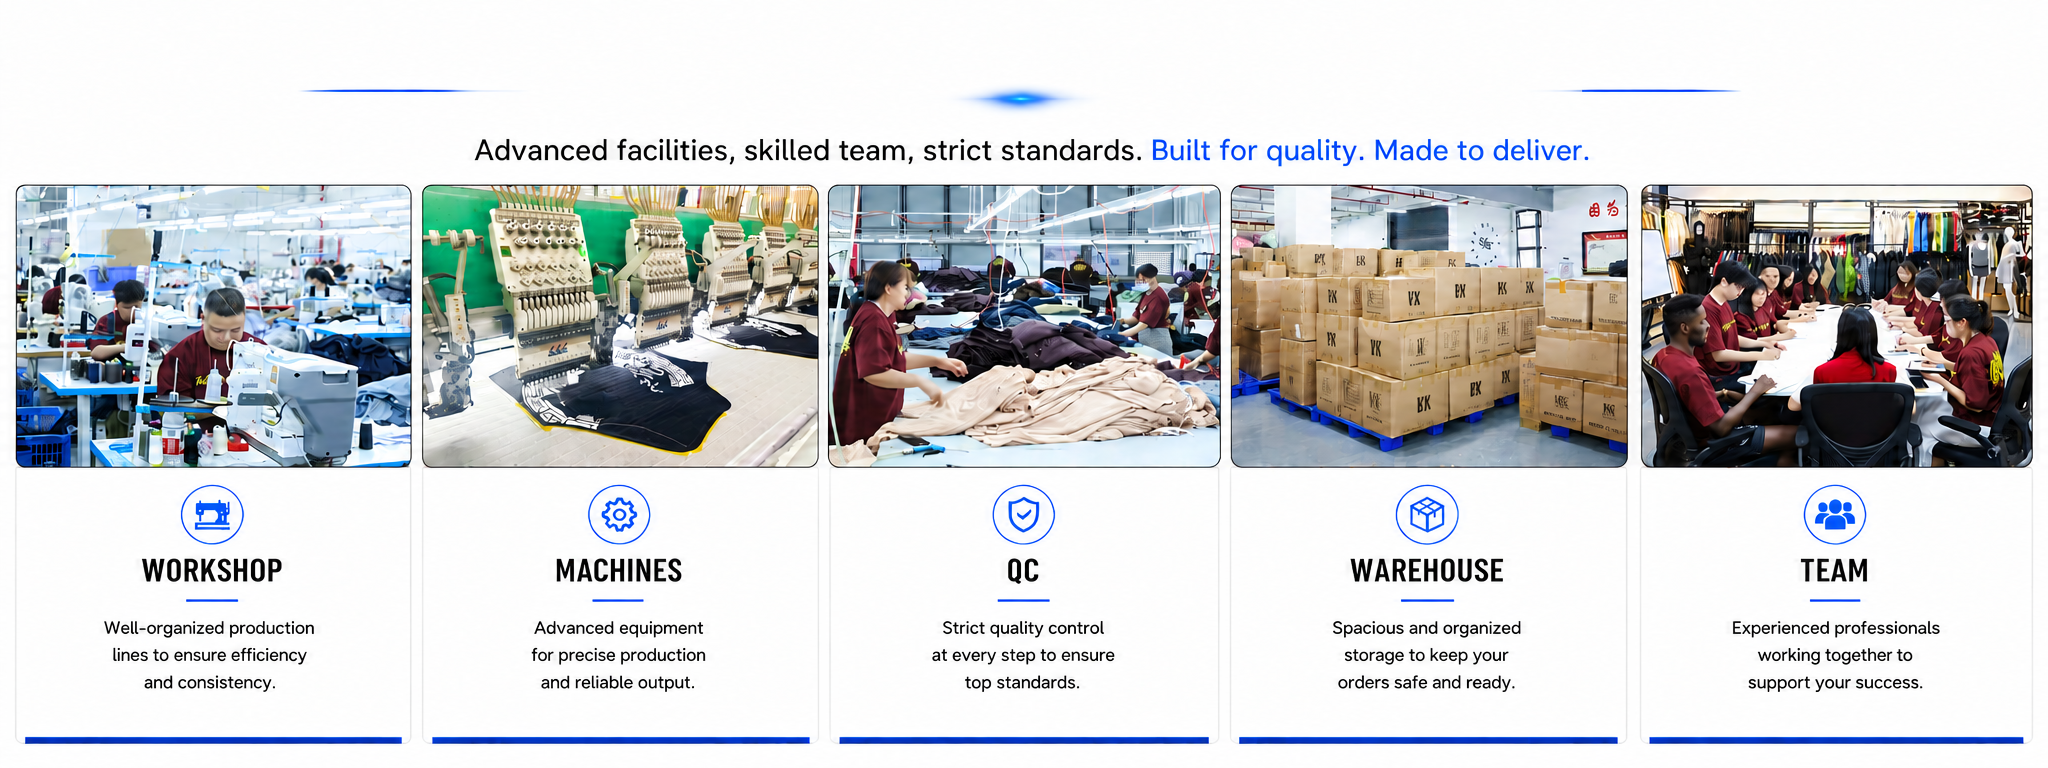
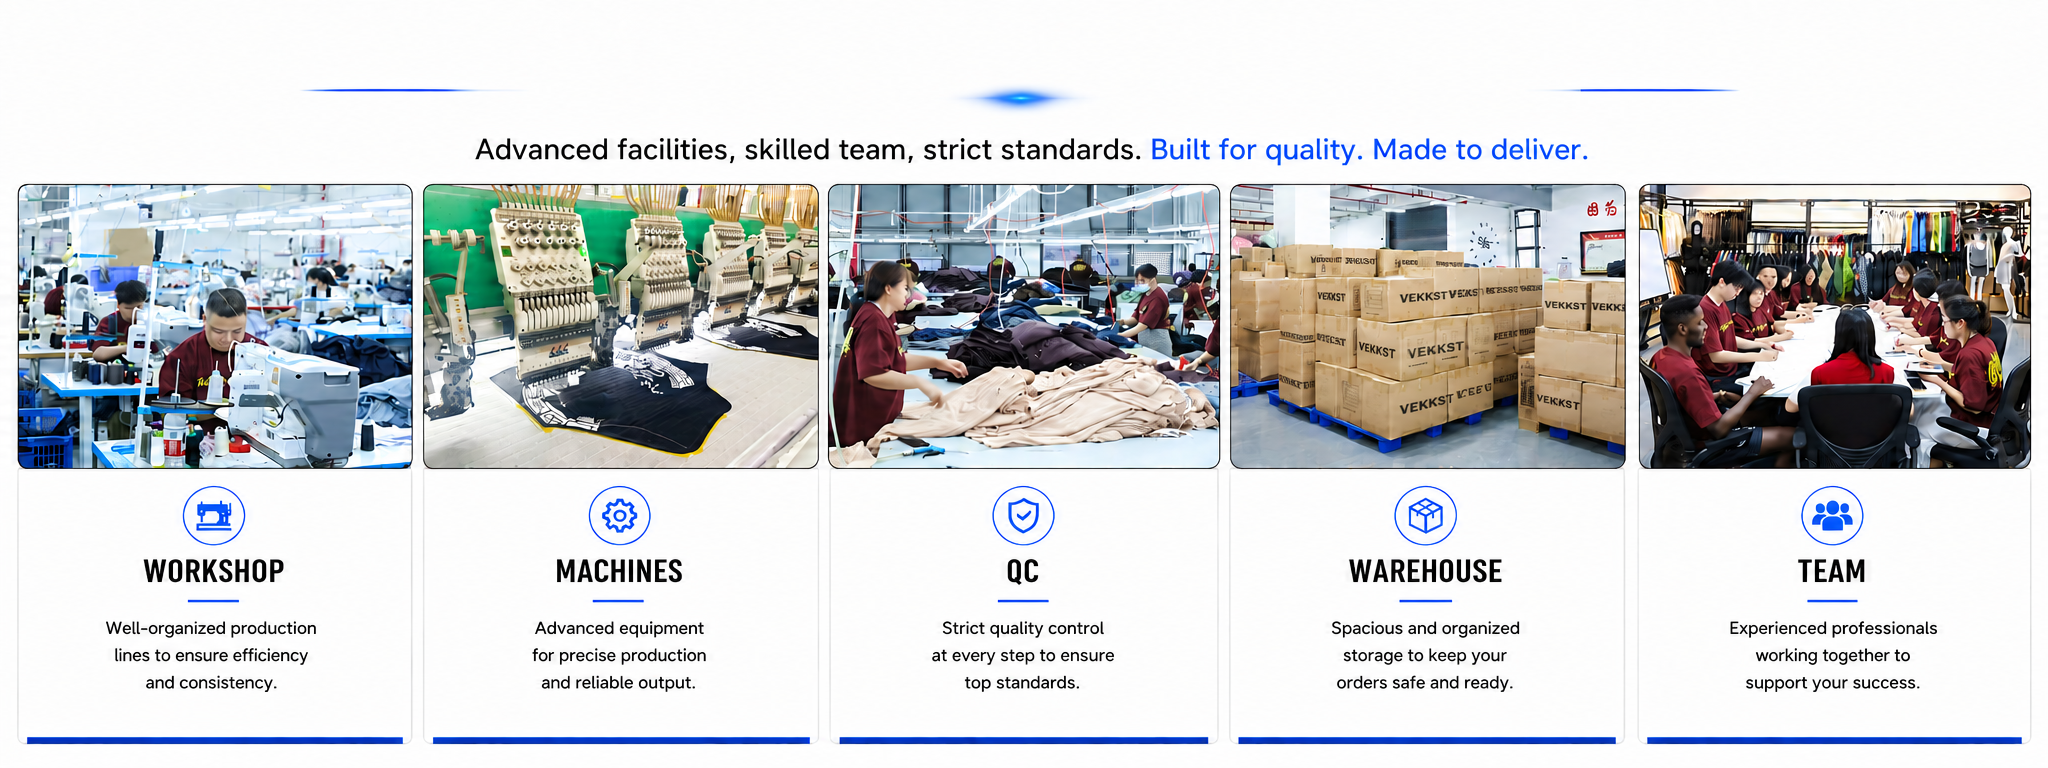
fix: update Factory Strength image with new PNG (correct filename case)

diff --git a/source/src/pages/Home.tsx b/source/src/pages/Home.tsx
@@ -166,7 +166,7 @@ export default function Home() {
         </div>
         <div className="full-bleed">
           <img
-            src={cms("factory-strength", "/images/Factory strength.png")}
+            src={cms("factory-strength", "/images/Factory Strength.png")}
             alt="Factory Strength"
             className="w-full h-auto md:h-[720px] object-cover"
             decoding="async"